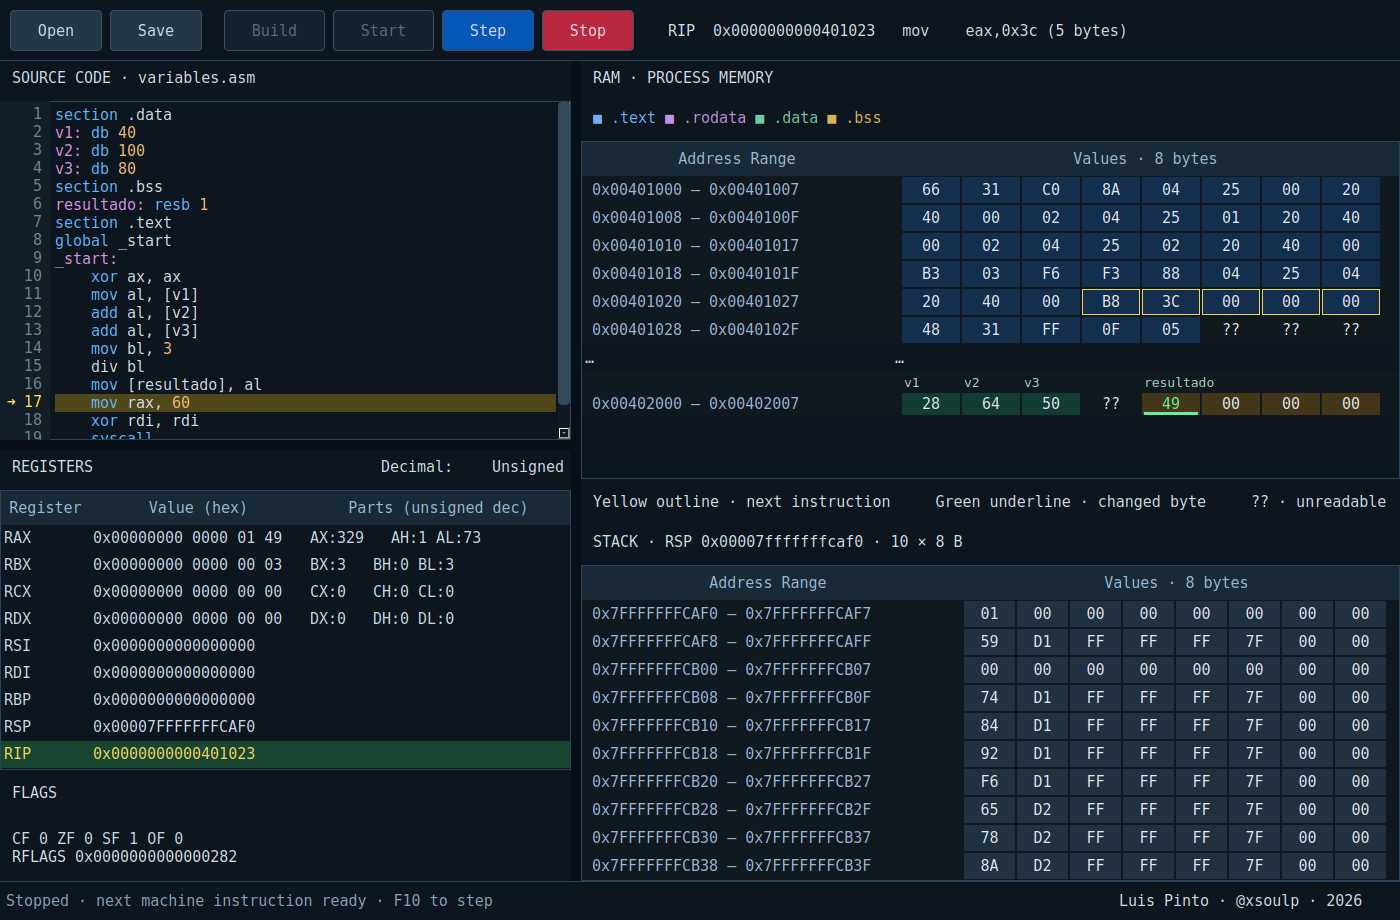
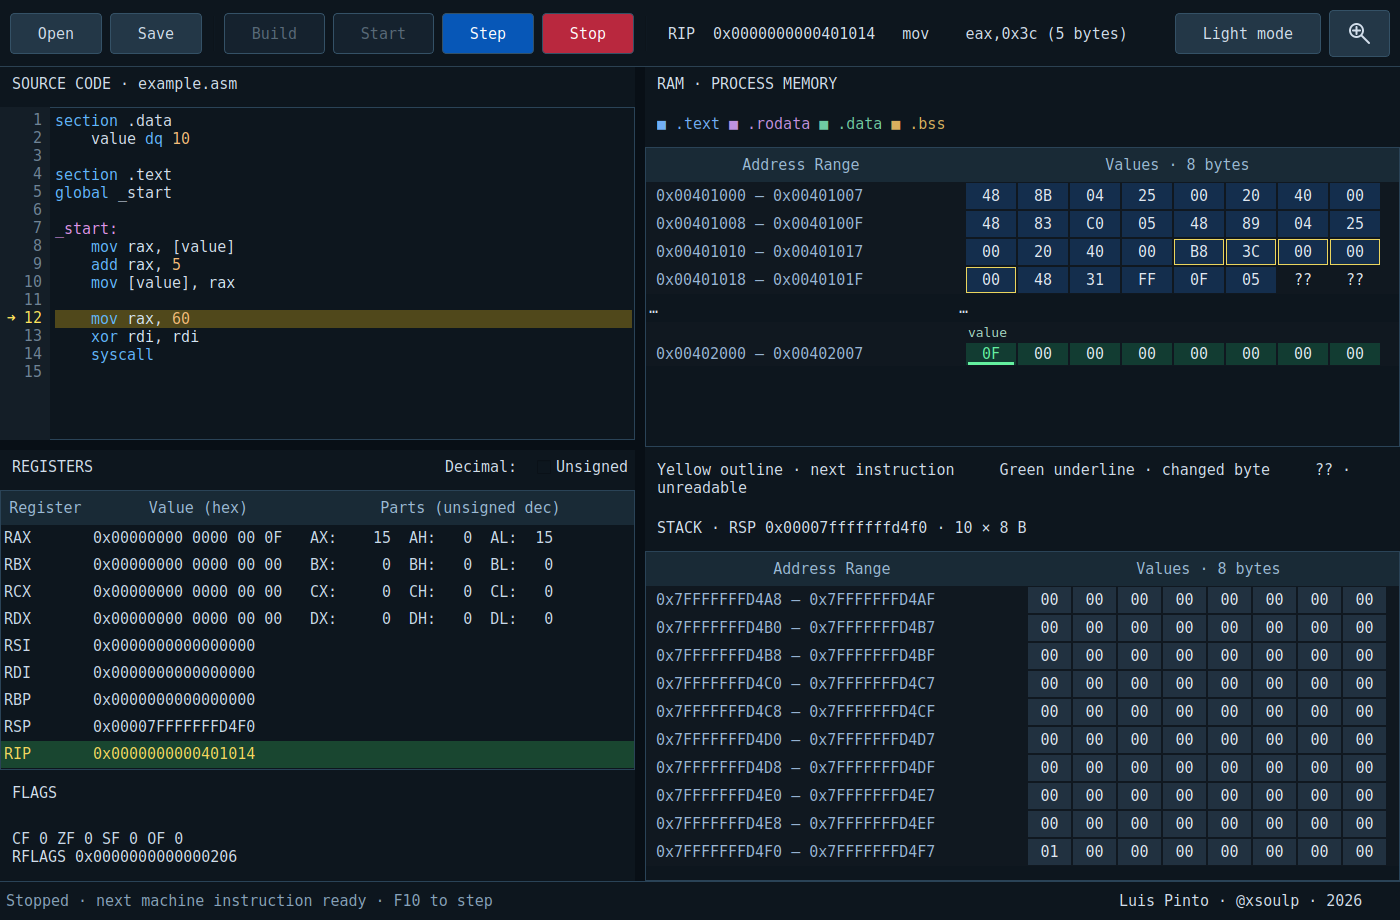
Update README screenshots for dark and light themes

diff --git a/README.md b/README.md
@@ -2,7 +2,13 @@
 
 A native C++20 / Qt 6 Widgets visual debugger for NASM x86-64 Linux programs. Uses NASM, GNU ld and a real asynchronous GDB/MI2 session.
 
-![ASM101 debugging a NASM program, showing source code, registers, RAM and stack](docs/asm101-screenshot.png)
+**Dark mode**
+
+![ASM101 in dark mode debugging a NASM program, showing source code, registers, RAM and stack](docs/asm101-screenshot.png)
+
+**Light mode (white background)**
+
+![ASM101 in light mode showing the same debugging session with a white background](docs/asm101-screenshot-light.png)
 
 ## Build and run (Ubuntu 24.04)
 
